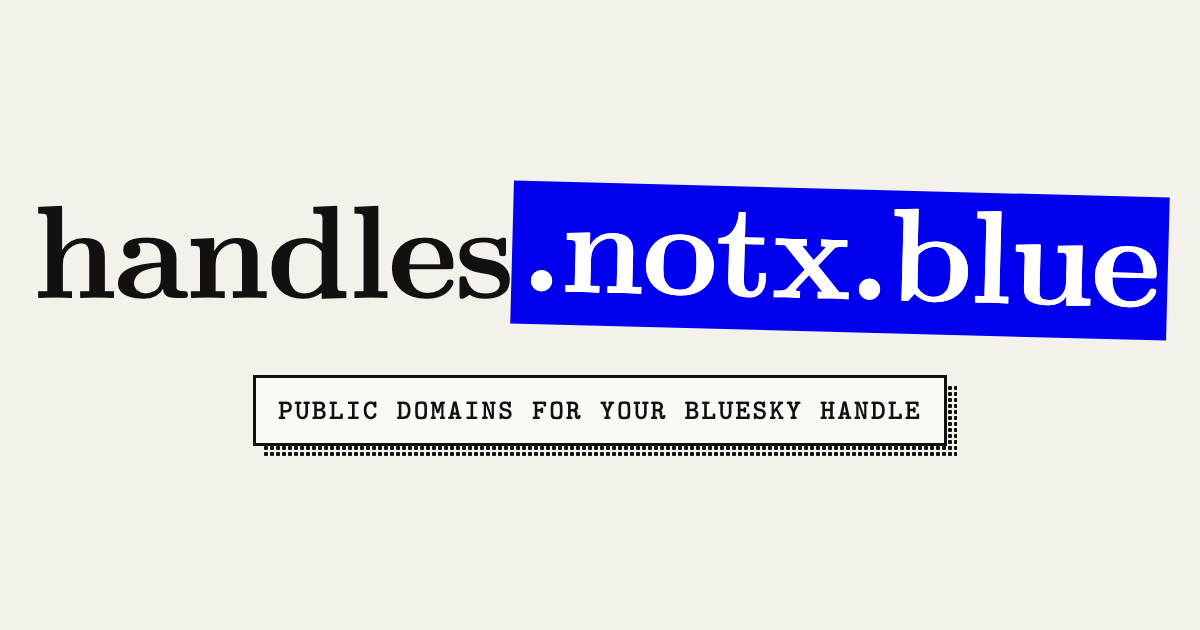
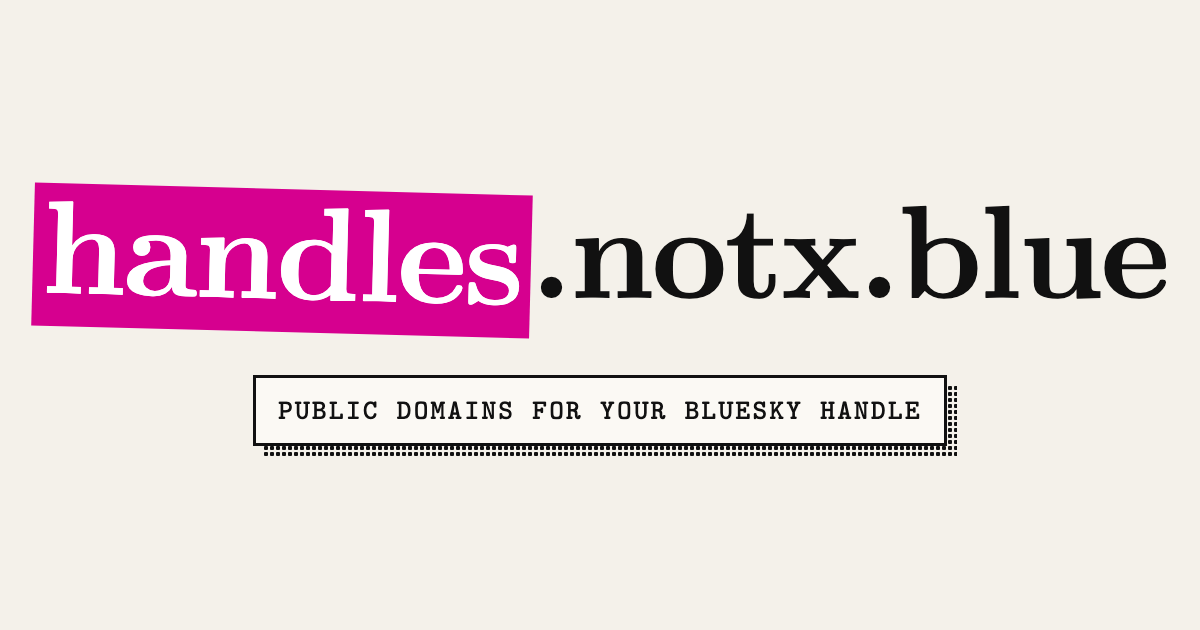
feat(site): put the ink block on "handles"

Changed region(s): [[0.0, 0.2714, 0.9867, 0.5429]]

diff --git a/site/index.html b/site/index.html
@@ -42,8 +42,8 @@
     .hn-btn-sm { padding: 4px 8px; font: var(--type-meta); text-transform: lowercase; letter-spacing: var(--tracking-meta); }
     .hn-btn svg { width: 13px; height: 13px; flex: none; }
 
-    /* The wordmark: the name in Computer Modern, the domain on a tilted ink
-       block. Sized to fit "handles.notx.blue" on one line at 320px. */
+    /* The wordmark: the name on an ink block tilted +1.5deg like a sticker,
+       the domain plain. Sized to fit "handles.notx.blue" on one line at 320px. */
     .hn-wordmark {
       margin: var(--space-11) 0 var(--space-6);
       font: var(--weight-display) clamp(34px, 9.6vw, 88px)/1.1 var(--font-display);
@@ -158,7 +158,7 @@
     </div>
 
     <main>
-      <h1 class="hn-wordmark">handles<span class="ink-block tilt">.notx.blue</span></h1>
+      <h1 class="hn-wordmark"><span class="ink-block tilt-cw">handles</span>.notx.blue</h1>
       <p class="hn-lede">Public domains you can use as your Bluesky handle.</p>
       <p class="hn-byline hn-meta">
         Work in progress. Expect bugs · part of <a href="https://notx.blue">notx.blue</a> by

diff --git a/scripts/og.html b/scripts/og.html
@@ -33,7 +33,7 @@
 </head>
 <body>
   <div class="frame">
-    <h1 class="wordmark">handles<span class="ink-block tilt-cw">.notx.blue</span></h1>
+    <h1 class="wordmark"><span class="ink-block tilt-cw">handles</span>.notx.blue</h1>
     <p class="tagline cast">Public domains for your Bluesky handle</p>
   </div>
 </body>
